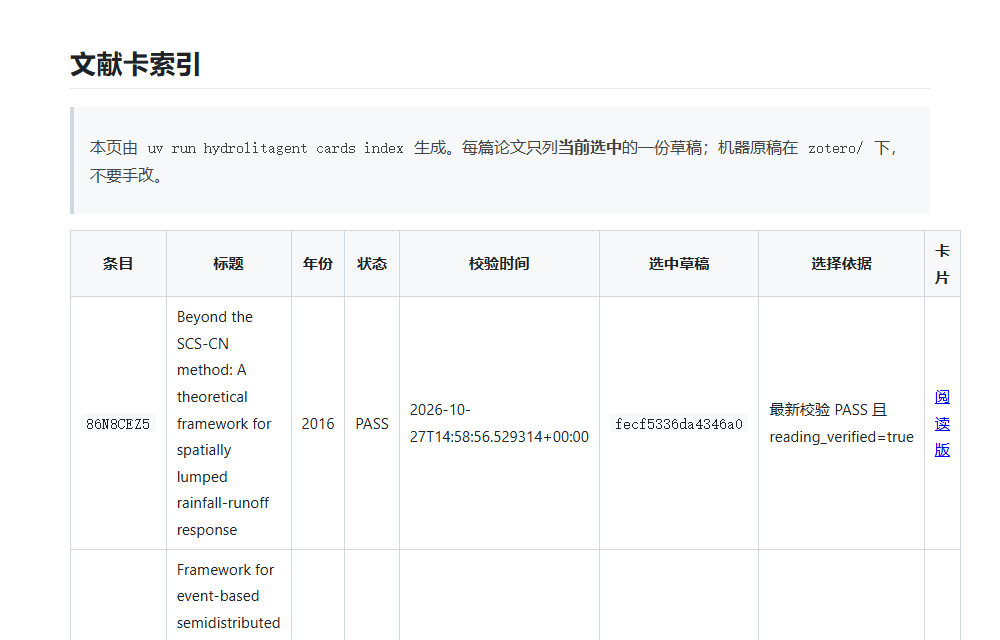
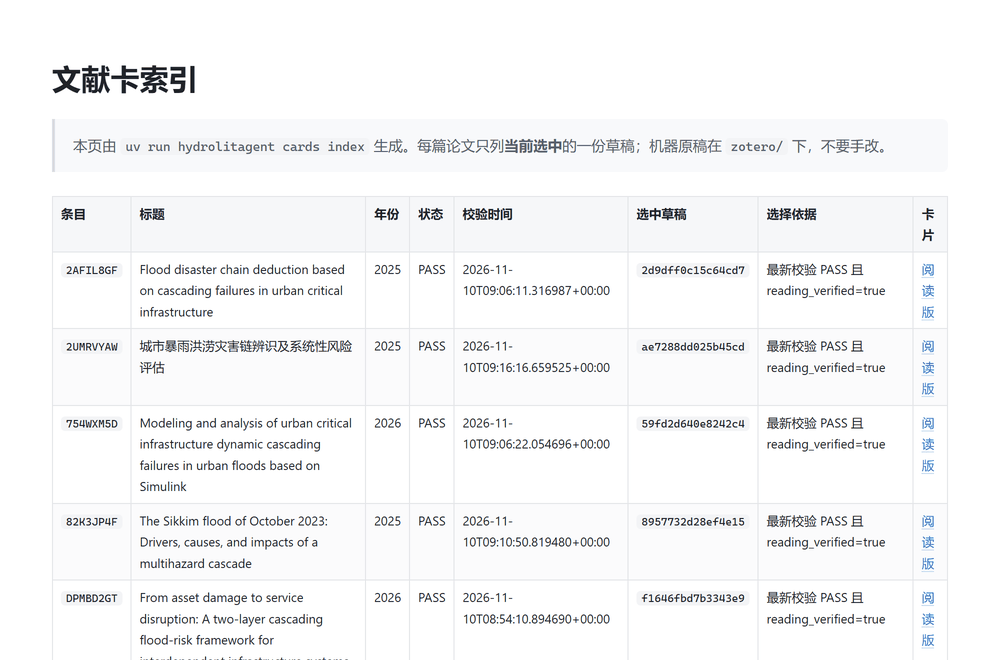
docs: 效果展示补文献卡与主题卡，截图换成当前产物（#81）

diff --git a/README.md b/README.md
@@ -53,6 +53,18 @@ Two papers, turned into narrated Chinese explainers by the same workflow — col
 |---|---|
 | **DrLIM** · Hadsell, Chopra & LeCun, CVPR 2006 — learn an invariant mapping with a contrastive loss · [Watch P1 on Bilibili →](https://www.bilibili.com/video/BV1njWu6dEv7?p=1) | **CPC** · van den Oord, Li & Vinyals, DeepMind 2018 — predict the future in latent space with InfoNCE · [Watch P2 on Bilibili →](https://www.bilibili.com/video/BV1njWu6dEv7?p=2) |
 
+### Evidence cards and theme pages
+
+One paper in, one card out; several cards then cluster into candidate themes. Every image below comes from real artifacts (`outputs/cards/`, `outputs/reading/themes/`):
+
+| [![Evidence card: properties, status, prose](docs/assets/screenshots/card-top.png)](docs/user-guide/cards/reading-in-obsidian.md) | [![Candidate theme page](docs/assets/screenshots/theme-page.png)](docs/user-guide/cards/unified-theme-pool.md) |
+|---|---|
+| **Evidence card** · the status line is written from `validation.json` (`PASS` / `REJECTED`), not self-graded by the model; the body reads as continuous prose instead of per-sentence labels. `uv run hydrolitagent cards run prepare` | **Candidate theme** · several cards cluster into one theme, each claim carries an `EV-` evidence id that traces back to a card and a focused-reading page. `uv run hydrolitagent themes-run` |
+
+Figures land where the text first mentions them — write `（图 1）` and the image follows that list item, caption directly underneath:
+
+![Figure inlined at first mention](docs/assets/screenshots/card-inline-figure.png)
+
 ## Command-line examples
 
 ```bash

diff --git a/README-zh.md b/README-zh.md
@@ -53,6 +53,18 @@ cp .env.example .env
 |---|---|
 | **DrLIM** · Hadsell、Chopra、LeCun，CVPR 2006 —— 用对比损失学习不变量映射 · [在 B 站看 P1 →](https://www.bilibili.com/video/BV1njWu6dEv7?p=1) | **CPC** · van den Oord、Li、Vinyals，DeepMind 2018 —— 在潜空间预测未来，用 InfoNCE 学表示 · [在 B 站看 P2 →](https://www.bilibili.com/video/BV1njWu6dEv7?p=2) |
 
+### 文献卡与主题卡
+
+读一篇论文产出一张卡，多张卡再聚成候选主题。下面的图都来自真实产物（`outputs/cards/` 与 `outputs/reading/themes/`）：
+
+| [![证据卡：属性、状态与正文](docs/assets/screenshots/card-top.png)](docs/user-guide/cards/reading-in-obsidian.md) | [![候选主题页](docs/assets/screenshots/theme-page.png)](docs/user-guide/cards/unified-theme-pool.md) |
+|---|---|
+| **证据卡** · 顶部状态按 `validation.json` 写（`PASS` / `REJECTED`），不是模型自评；正文按行文顺序展开，不逐句贴标签。`uv run hydrolitagent cards run prepare` | **候选主题** · 多篇卡聚成一个主题，每条判断挂 `EV-` 证据编号，正文可逐条追回卡片与精读页。`uv run hydrolitagent themes-run` |
+
+图内联在首次提及处 —— 正文写完「（图 1）」，图就落在那个列表项之后，图注紧随其下：
+
+![图内联在首次提及处](docs/assets/screenshots/card-inline-figure.png)
+
 ## 命令行示例
 
 ```bash

diff --git a/docs/index.md b/docs/index.md
@@ -71,6 +71,18 @@ cd /path/to/mylibrary
 | **产物阅读层** | `cards index`：产物根 → Obsidian vault（HOME、卡片索引、主题阅读页，链接自检） | [在 Obsidian 里读产物](user-guide/cards/reading-in-obsidian.md) |
 | 论文复现 | 复现 AI 驱动水文学关键论文 | `equation_from_data/`、`google_floodhub/` |
 
+## 产出的样子
+
+读一篇论文产出一张卡，多张卡再聚成候选主题 —— 图都来自真实产物（`outputs/cards/`、`outputs/reading/themes/`）。
+
+| [![证据卡：属性、状态与正文](assets/screenshots/card-top.png)](user-guide/cards/reading-in-obsidian.md) | [![候选主题页](assets/screenshots/theme-page.png)](user-guide/cards/unified-theme-pool.md) |
+|---|---|
+| **证据卡** —— 顶部状态按 `validation.json` 写，正文连续成段，图内联在首次提及处 | **候选主题** —— 多篇卡聚成一个主题，每条判断挂 `EV-` 证据编号 |
+
+卡片按篇列在 `outputs/cards/INDEX.md` 里，每篇只列当前选中的一份草稿并写明选择依据：
+
+![卡片索引：每篇一条当前草稿](assets/screenshots/cards-index.png)
+
 ## 项目结构
 
 包与目录的完整地图、代码分三支、Zotero 的几种读法见[模块架构](development/architecture.md)。

diff --git a/docs/user-guide/cards/reading-in-obsidian.md b/docs/user-guide/cards/reading-in-obsidian.md
@@ -43,9 +43,9 @@ uv run hydrolitagent cards index --json   # 机器可读报告（含断链自检
 
 ## 现在的卡片长什么样
 
-下面是用真实产物（`cards/86N8CEZ5`）截的图；在 Obsidian 里打开效果一致，公式由 Obsidian 原生渲染。
+下面几张图取自真实产物（`cards/82K3JP4F`、`cards/E7ZTFJZJ`、主题 `TH-877103b1db3d0e741b1577ae`），按阅读层排版渲染；在 Obsidian 里打开同一份文件，排版与公式渲染基本一致。
 
-**卡片顶部**：YAML 属性、按 `validation.json` 写的真实状态、标题与正文开头。
+**卡片顶部**：属性、按 `validation.json` 写的真实状态（`PASS` / `REJECTED`）、标题与正文开头。
 
 ![卡片顶部](../../assets/screenshots/card-top.png){width=760}
 
